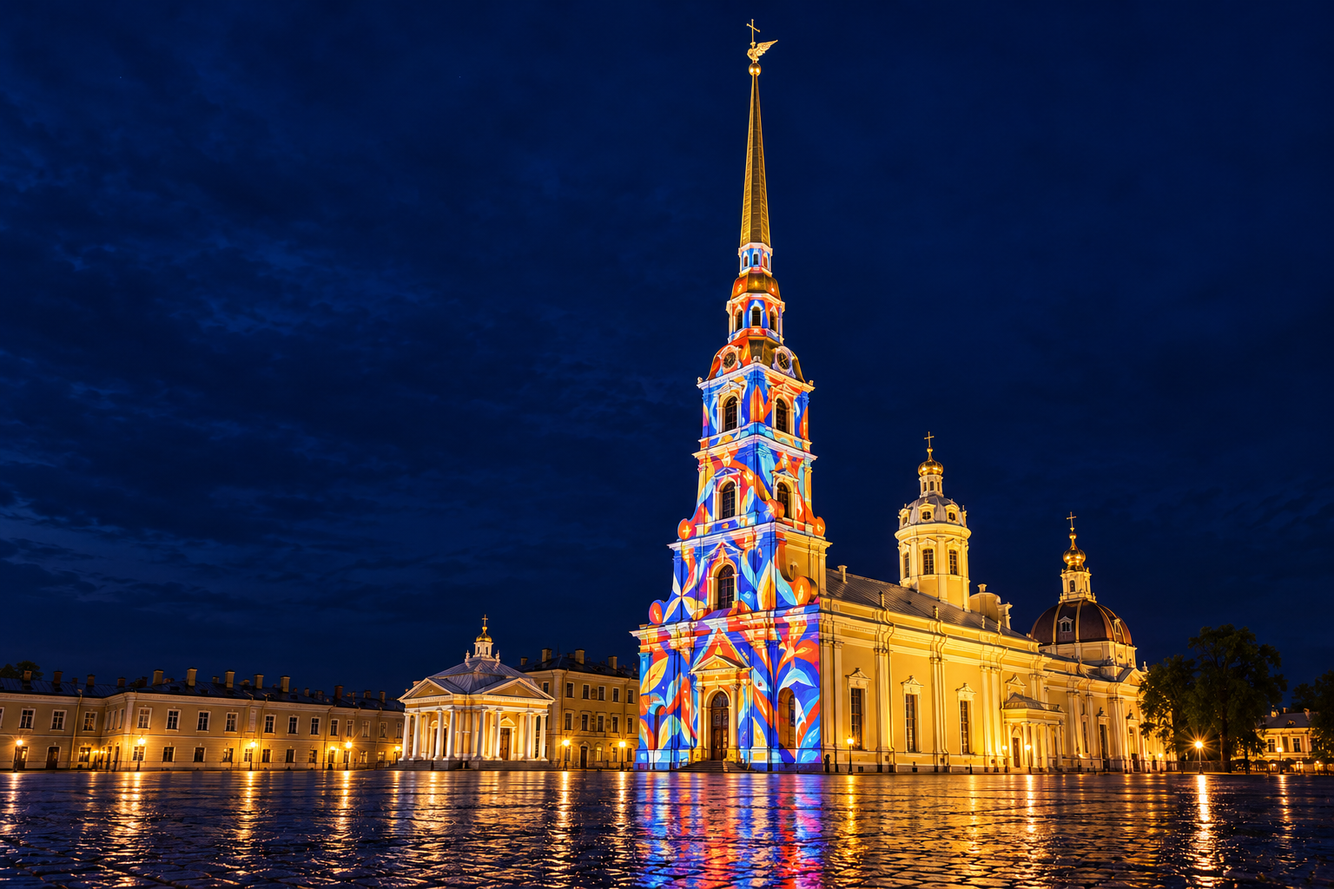
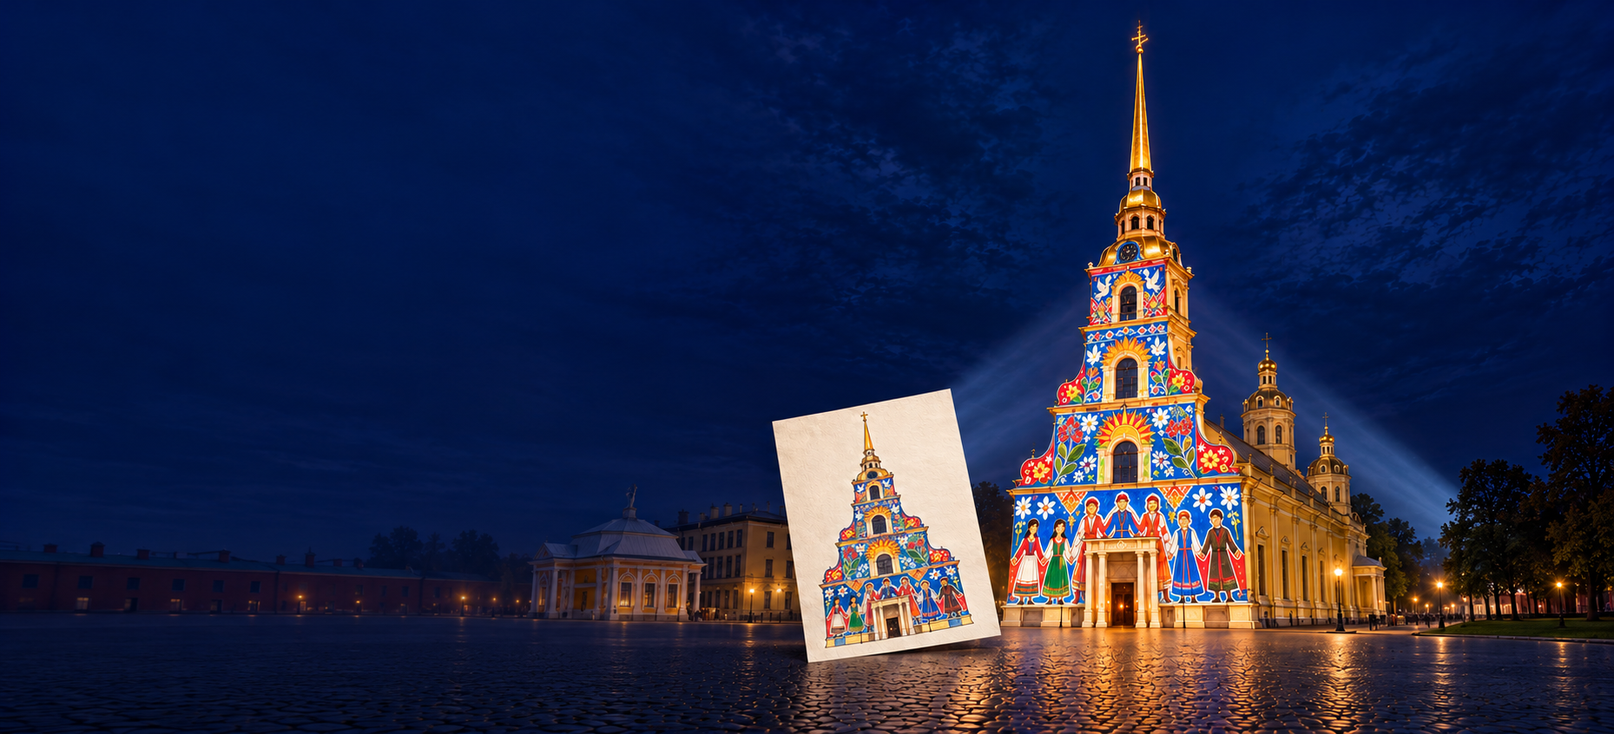
Update cover, campaign hashtag and contact email

diff --git a/src/style.css b/src/style.css
@@ -1,5 +1,5 @@
-@font-face{font-family:Golos;src:url('/golos.ttf') format('truetype');font-weight:400 900;font-display:swap}*{box-sizing:border-box}html{scroll-behavior:smooth;scroll-padding-top:35px}body{margin:0;background:#fff;color:#242424;font-family:Golos,Arial,sans-serif;font-weight:500}button,a{-webkit-tap-highlight-color:transparent}button{font:inherit;cursor:pointer}a{color:inherit;text-decoration:none}button:focus-visible,a:focus-visible{outline:3px solid #DE2726;outline-offset:6px}button:disabled{cursor:wait}h1,h2,h3,p{margin:0}h1,h2{color:#2134A0;font-weight:700;letter-spacing:-.05em;line-height:1.06}h3{font-weight:700;letter-spacing:-.03em;line-height:1.22}.container{width:min(1256px,calc(100% - 112px));margin:auto}.header{border-bottom:2px solid #2134A0;background:#fff;position:relative;z-index:4}.header-inner{display:flex;align-items:center;min-height:146px;gap:30px}.organizer{display:flex;align-items:center;max-width:190px}.organizer img{width:188px;height:auto}.brand{border-left:1px solid #c6c7d1;padding-left:28px;display:flex;align-items:center}.brand img{object-fit:contain;width:58px;height:112px}.header nav{display:flex;gap:38px;margin-left:auto;font-size:15px}.header nav a:hover{color:#DE2726}.menu-toggle,.mobile-nav{display:none}.hero{position:relative;min-height:735px;overflow:hidden}.hero-art{position:absolute;inset:0 0 0 36%;background:#071531}.hero-art img{width:100%;height:100%;object-fit:cover;object-position:60% 50%}.hero-art:after{content:'';position:absolute;inset:0;background:linear-gradient(90deg,#fff 0%,rgba(255,255,255,.99) 5%,rgba(255,255,255,.66) 18%,transparent 42%)}.art-caption{position:absolute;bottom:20px;right:28px;z-index:1;font-size:11px;color:#fff;text-shadow:0 1px 5px #000}.hero-inner{position:relative;padding:55px 0 48px;z-index:2;pointer-events:none}.hero-copy{max-width:640px;pointer-events:auto}.eyebrow{color:#DE2726;font-size:15px;line-height:1.5;font-weight:700;letter-spacing:.01em}.eyebrow span{margin:0 6px}.hero h1{font-size:67px;margin:25px 0 22px;max-width:620px}.hero-description{font-size:24px;line-height:1.35;max-width:385px;margin-bottom:29px;letter-spacing:-.03em}.button{display:inline-flex;align-items:center;justify-content:space-between;gap:40px;border:0;background:#DE2726;color:#fff;padding:20px 28px;font-size:21px;font-weight:700;transition:background .2s,transform .2s}.button span{font-size:27px;line-height:1}.button:hover{background:#bf1d1c;transform:translateY(-2px)}.deadline{color:#DE2726;font-weight:700;font-size:32px;line-height:1.1;letter-spacing:-.04em;margin-top:25px}.about{padding-top:68px;padding-bottom:75px;display:grid;grid-template-columns:1fr 1fr;gap:75px;border-bottom:1px solid #d7d8df}.section-label{color:#747680;font-size:12px;text-transform:uppercase;letter-spacing:.11em;margin-bottom:20px}.about h2{font-size:46px}.small-rule{display:block;width:59px;height:4px;background:#DE2726;margin-top:28px}.about-copy{padding-left:31px;border-left:1px solid #c6c7d1}.about-copy h3{font-size:17px;margin:0 0 17px}.about-copy p{font-size:17px;line-height:1.65;margin-bottom:15px}.about-copy p:last-child{margin:0}.participation{padding:70px 0 81px}.section-heading{display:flex;justify-content:space-between;align-items:center;margin-bottom:39px}.section-heading h2{font-size:53px}.section-note{color:#747680;font-size:14px;line-height:1.5}.steps{display:grid;grid-template-columns:1fr 1fr;list-style:none;padding:0;margin:0}.step{display:grid;grid-template-columns:52px 58px 1fr;gap:20px;min-height:207px;padding:32px 32px 31px 0;border-top:1px solid #d7d8df}.step:nth-child(even){border-left:1px solid #d7d8df;padding-left:32px;padding-right:0}.step-number{font-size:45px;color:#2134A0;font-weight:700;line-height:1;letter-spacing:-.05em}.step-icon{width:52px;height:58px;fill:none;stroke:#2134A0;stroke-width:2.4;stroke-linejoin:round;stroke-linecap:round}.step h3{font-size:22px;margin-bottom:9px}.step p{font-size:16px;line-height:1.5}.text-link{padding:0;background:none;border:0;text-decoration:underline;text-underline-offset:4px;color:#2134A0;font-size:17px;font-weight:700;line-height:1.5;text-align:left;margin-top:13px}.text-link:hover{color:#DE2726}.red{color:#DE2726}.link-note{display:block;font-size:11px;color:#747680;margin-top:8px}.step-final{grid-column:1/-1;border-bottom:1px solid #d7d8df;grid-template-columns:52px 58px 1fr 177px;min-height:186px;padding-right:0;gap:20px}.step-final p{max-width:620px}.step-final h3 span{display:block;margin-top:2px;font-size:28px}.format-note{align-self:center;padding-left:22px;border-left:1px solid #d7d8df;font-size:13px;color:#747680;line-height:1.8}.format-note span{display:block}.showcase{background:#f8f8fb;border-top:1px solid #ededf4;border-bottom:2px solid #2134A0;padding:64px 0 61px}.showcase h2{font-size:69px;max-width:1100px;margin:25px 0 22px}.showcase-subtitle{font-size:26px;letter-spacing:-.035em}.showcase-bottom{display:grid;grid-template-columns:1fr 1fr;gap:80px;margin-top:58px;align-items:center}.slogan{font-size:35px;line-height:1.22;letter-spacing:-.035em;font-weight:700;display:flex;align-items:flex-start;flex-direction:column;color:white}.slogan span{background:#2134A0;padding:5px 16px}.slogan span+span{background:#DE2726;margin-left:59px}.showcase-bottom p{font-size:16px;line-height:1.6;max-width:480px}.footer-inner{padding:38px 0 42px;display:flex;align-items:center;gap:43px}.footer-inner h2{font-size:42px}.contact{border-left:1px solid #c6c7d1;padding-left:37px}.contact p{font-size:15px}.contact .text-link{margin-top:5px;font-size:19px}.copyright{margin-left:auto;color:#747680;font-size:12px;line-height:1.6}dialog{border:0;padding:38px;max-width:480px;width:calc(100% - 40px);box-shadow:0 16px 100px #07153144}dialog::backdrop{background:#07153180;backdrop-filter:blur(4px)}dialog h2{font-size:32px;margin-bottom:20px}dialog p:not(.section-label){line-height:1.6;font-size:16px}dialog .button{margin-top:25px;font-size:17px;padding:14px 20px}.dialog-close{position:absolute;right:16px;top:12px;border:0;background:transparent;font-size:32px;color:#2134A0}.skip{position:fixed;top:-80px;left:20px;z-index:20;background:#fff;padding:15px}.skip:focus{top:10px}[hidden]{display:none!important}
-@media(min-width:1550px){.hero-art img{object-position:50% 50%}.hero-art{left:40%}}
-@media(max-width:1100px){.container{width:calc(100% - 64px)}.hero h1{font-size:57px;max-width:520px}.hero-copy{max-width:540px}.hero{min-height:700px}.hero-description{font-size:22px;max-width:335px}.about{gap:35px}.about h2{font-size:39px}.step{gap:14px;grid-template-columns:42px 45px 1fr;padding-right:20px}.step:nth-child(even){padding-left:20px}.step-icon{width:43px}.step-number{font-size:38px}.step-final{grid-template-columns:42px 45px 1fr 140px}.showcase h2{font-size:58px}.showcase-bottom{gap:35px}.slogan{font-size:30px}}
-@media(max-width:760px){.container{width:calc(100% - 40px)}.header-inner{min-height:106px;gap:19px}.organizer img{width:148px}.brand{padding-left:18px}.brand img{width:41px;height:80px}.header-inner nav{display:none}.menu-toggle{display:flex;margin-left:auto;background:transparent;border:0;width:39px;height:40px;flex-direction:column;gap:7px;justify-content:center;padding:6px}.menu-toggle span{height:2px;background:#2134A0;width:26px}.header .mobile-nav{display:flex;margin:0;padding:22px 20px;gap:20px;flex-direction:column;border-top:1px solid #dedee5}.hero{display:flex;flex-direction:column;min-height:0}.hero-inner{order:0;padding:33px 0 24px}.hero-copy{max-width:none}.hero h1{font-size:clamp(32px,10.4vw,43px);max-width:550px;margin:19px 0}.eyebrow{font-size:12px}.hero-description{font-size:21px;max-width:350px;margin-bottom:23px}.button{font-size:18px;padding:18px 24px;gap:38px}.deadline{font-size:27px;margin-top:23px}.hero-art{order:1;position:relative;inset:auto;width:100%;height:375px}.hero-art:after{background:linear-gradient(180deg,#fff,transparent 24%)}.hero-art img{object-position:56% 50%}.art-caption{font-size:10px;right:20px;bottom:17px}.about{padding:45px 0;display:block}.about h2{font-size:38px}.section-label{font-size:11px;margin-bottom:15px}.small-rule{margin-top:22px}.about-copy{border:0;padding:0;margin-top:29px}.about-copy p{font-size:15px;line-height:1.65}.about-copy h3{font-size:15px}.participation{padding:43px 0 48px}.section-heading{margin-bottom:28px;display:block}.section-heading h2{font-size:40px}.section-note{display:none}.steps{display:block}.step,.step:nth-child(even),.step-final{border-left:0;grid-template-columns:36px 42px 1fr;gap:12px;padding:26px 0;min-height:0}.step-number{font-size:32px}.step-icon{width:38px;height:46px}.step h3{font-size:19px}.step p{font-size:15px}.text-link{font-size:15px}.step-final h3 span{font-size:25px}.format-note{grid-column:3;border:0;padding:0;display:flex;gap:12px;font-size:11px}.showcase{padding:43px 0 44px}.showcase h2{font-size:40px;margin:21px 0 19px}.showcase-subtitle{font-size:21px;line-height:1.35;max-width:330px}.showcase-bottom{display:flex;flex-direction:column;align-items:flex-start;gap:31px;margin-top:34px}.slogan{font-size:27px}.slogan span+span{margin-left:36px}.showcase-bottom p{font-size:15px}.footer-inner{display:block;padding:32px 0}.footer-inner h2{font-size:38px}.contact{border:0;padding:0;margin:22px 0}.copyright{font-size:11px}.contact .text-link{font-size:17px}}
+@font-face{font-family:Golos;src:url('/golos.ttf') format('truetype');font-weight:400 900;font-display:swap}*{box-sizing:border-box}html{scroll-behavior:smooth;scroll-padding-top:35px}body{margin:0;background:#fff;color:#242424;font-family:Golos,Arial,sans-serif;font-weight:500}button,a{-webkit-tap-highlight-color:transparent}button{font:inherit;cursor:pointer}a{color:inherit;text-decoration:none}button:focus-visible,a:focus-visible{outline:3px solid #DE2726;outline-offset:6px}button:disabled{cursor:wait}h1,h2,h3,p{margin:0}h1,h2{color:#2134A0;font-weight:700;letter-spacing:-.05em;line-height:1.06}h3{font-weight:700;letter-spacing:-.03em;line-height:1.22}.container{width:min(1256px,calc(100% - 112px));margin:auto}.header{border-bottom:2px solid #2134A0;background:#fff;position:relative;z-index:4}.header-inner{display:flex;align-items:center;min-height:146px;gap:30px}.organizer{display:flex;align-items:center;max-width:190px}.organizer img{width:188px;height:auto}.brand{border-left:1px solid #c6c7d1;padding-left:28px;display:flex;align-items:center}.brand img{object-fit:contain;width:58px;height:112px}.header nav{display:flex;gap:38px;margin-left:auto;font-size:15px}.header nav a:hover{color:#DE2726}.menu-toggle,.mobile-nav{display:none}.hero{position:relative;min-height:735px;overflow:hidden}.hero-art{position:absolute;inset:0 0 0 36%;background:#071531}.hero-art img{width:100%;height:100%;object-fit:cover;object-position:70% 50%}.hero-art:after{content:'';position:absolute;inset:0;background:linear-gradient(90deg,#fff 0%,rgba(255,255,255,.99) 5%,rgba(255,255,255,.66) 18%,transparent 42%)}.art-caption{position:absolute;bottom:20px;right:28px;z-index:1;font-size:11px;color:#fff;text-shadow:0 1px 5px #000}.hero-inner{position:relative;padding:55px 0 48px;z-index:2;pointer-events:none}.hero-copy{max-width:640px;pointer-events:auto}.eyebrow{color:#DE2726;font-size:15px;line-height:1.5;font-weight:700;letter-spacing:.01em}.eyebrow span{margin:0 6px}.hero h1{font-size:67px;margin:25px 0 22px;max-width:620px}.hero-description{font-size:24px;line-height:1.35;max-width:385px;margin-bottom:29px;letter-spacing:-.03em}.button{display:inline-flex;align-items:center;justify-content:space-between;gap:40px;border:0;background:#DE2726;color:#fff;padding:20px 28px;font-size:21px;font-weight:700;transition:background .2s,transform .2s}.button span{font-size:27px;line-height:1}.button:hover{background:#bf1d1c;transform:translateY(-2px)}.deadline{color:#DE2726;font-weight:700;font-size:32px;line-height:1.1;letter-spacing:-.04em;margin-top:25px}.about{padding-top:68px;padding-bottom:75px;display:grid;grid-template-columns:1fr 1fr;gap:75px;border-bottom:1px solid #d7d8df}.section-label{color:#747680;font-size:12px;text-transform:uppercase;letter-spacing:.11em;margin-bottom:20px}.about h2{font-size:52px}.small-rule{display:block;width:59px;height:4px;background:#DE2726;margin-top:28px}.about-copy{padding-left:31px;border-left:1px solid #c6c7d1}.about-copy h3{font-size:17px;margin:0 0 17px}.about-copy p{font-size:17px;line-height:1.65;margin-bottom:15px}.about-copy p:last-child{margin:0}.participation{padding:70px 0 81px}.section-heading{display:flex;justify-content:space-between;align-items:center;margin-bottom:39px}.section-heading h2{font-size:53px}.section-note{color:#747680;font-size:14px;line-height:1.5}.steps{display:grid;grid-template-columns:1fr 1fr;list-style:none;padding:0;margin:0}.step{display:grid;grid-template-columns:52px 58px 1fr;gap:20px;min-height:207px;padding:32px 32px 31px 0;border-top:1px solid #d7d8df}.step:nth-child(even){border-left:1px solid #d7d8df;padding-left:32px;padding-right:0}.step-number{font-size:45px;color:#2134A0;font-weight:700;line-height:1;letter-spacing:-.05em}.step-icon{width:52px;height:58px;fill:none;stroke:#2134A0;stroke-width:2.4;stroke-linejoin:round;stroke-linecap:round}.step h3{font-size:22px;margin-bottom:9px}.step p{font-size:16px;line-height:1.5}.text-link{padding:0;background:none;border:0;text-decoration:underline;text-underline-offset:4px;color:#2134A0;font-size:17px;font-weight:700;line-height:1.5;text-align:left;margin-top:13px}.text-link:hover{color:#DE2726}.red{color:#DE2726}.link-note{display:block;font-size:11px;color:#747680;margin-top:8px}.step-final{grid-column:1/-1;border-bottom:1px solid #d7d8df;grid-template-columns:52px 58px 1fr 177px;min-height:186px;padding-right:0;gap:20px}.step-final p{max-width:620px}.step-final h3 span{display:block;margin-top:2px;font-size:28px}.format-note{align-self:center;padding-left:22px;border-left:1px solid #d7d8df;font-size:13px;color:#747680;line-height:1.8}.format-note span{display:block}.showcase{background:#f8f8fb;border-top:1px solid #ededf4;border-bottom:2px solid #2134A0;padding:64px 0 61px}.showcase h2{font-size:69px;max-width:1100px;margin:25px 0 22px}.showcase-subtitle{font-size:26px;letter-spacing:-.035em}.showcase-bottom{display:grid;grid-template-columns:1fr 1fr;gap:80px;margin-top:58px;align-items:center}.slogan{font-size:35px;line-height:1.22;letter-spacing:-.035em;font-weight:700;display:flex;align-items:flex-start;flex-direction:column;color:white}.slogan span{background:#2134A0;padding:5px 16px}.slogan span+span{background:#DE2726;margin-left:59px}.showcase-bottom p{font-size:16px;line-height:1.6;max-width:480px}.footer-inner{padding:38px 0 42px;display:flex;align-items:center;gap:43px}.footer-inner h2{font-size:42px}.contact{border-left:1px solid #c6c7d1;padding-left:37px}.contact p{font-size:15px}.contact .text-link{margin-top:5px;font-size:19px}.copyright{margin-left:auto;color:#747680;font-size:12px;line-height:1.6}dialog{border:0;padding:38px;max-width:480px;width:calc(100% - 40px);box-shadow:0 16px 100px #07153144}dialog::backdrop{background:#07153180;backdrop-filter:blur(4px)}dialog h2{font-size:32px;margin-bottom:20px}dialog p:not(.section-label){line-height:1.6;font-size:16px}dialog .button{margin-top:25px;font-size:17px;padding:14px 20px}.dialog-close{position:absolute;right:16px;top:12px;border:0;background:transparent;font-size:32px;color:#2134A0}.skip{position:fixed;top:-80px;left:20px;z-index:20;background:#fff;padding:15px}.skip:focus{top:10px}[hidden]{display:none!important}
+@media(min-width:1550px){.hero-art img{object-position:70% 50%}.hero-art{left:40%}}
+@media(max-width:1100px){.container{width:calc(100% - 64px)}.hero h1{font-size:57px;max-width:520px}.hero-copy{max-width:540px}.hero{min-height:700px}.hero-description{font-size:22px;max-width:335px}.about{gap:35px}.about h2{font-size:46px}.step{gap:14px;grid-template-columns:42px 45px 1fr;padding-right:20px}.step:nth-child(even){padding-left:20px}.step-icon{width:43px}.step-number{font-size:38px}.step-final{grid-template-columns:42px 45px 1fr 140px}.showcase h2{font-size:58px}.showcase-bottom{gap:35px}.slogan{font-size:30px}}
+@media(max-width:760px){.container{width:calc(100% - 40px)}.header-inner{min-height:106px;gap:19px}.organizer img{width:148px}.brand{padding-left:18px}.brand img{width:41px;height:80px}.header-inner nav{display:none}.menu-toggle{display:flex;margin-left:auto;background:transparent;border:0;width:39px;height:40px;flex-direction:column;gap:7px;justify-content:center;padding:6px}.menu-toggle span{height:2px;background:#2134A0;width:26px}.header .mobile-nav{display:flex;margin:0;padding:22px 20px;gap:20px;flex-direction:column;border-top:1px solid #dedee5}.hero{display:flex;flex-direction:column;min-height:0}.hero-inner{order:0;padding:33px 0 24px}.hero-copy{max-width:none}.hero h1{font-size:clamp(32px,10.4vw,43px);max-width:550px;margin:19px 0}.eyebrow{font-size:12px}.hero-description{font-size:21px;max-width:350px;margin-bottom:23px}.button{font-size:18px;padding:18px 24px;gap:38px}.deadline{font-size:27px;margin-top:23px}.hero-art{order:1;position:relative;inset:auto;width:100%;height:375px}.hero-art:after{background:linear-gradient(180deg,#fff,transparent 24%)}.hero-art img{object-position:70% 50%}.art-caption{font-size:10px;right:20px;bottom:17px}.about{padding:45px 0;display:block}.about h2{font-size:42px}.section-label{font-size:11px;margin-bottom:15px}.small-rule{margin-top:22px}.about-copy{border:0;padding:0;margin-top:29px}.about-copy p{font-size:15px;line-height:1.65}.about-copy h3{font-size:15px}.participation{padding:43px 0 48px}.section-heading{margin-bottom:28px;display:block}.section-heading h2{font-size:40px}.section-note{display:none}.steps{display:block}.step,.step:nth-child(even),.step-final{border-left:0;grid-template-columns:36px 42px 1fr;gap:12px;padding:26px 0;min-height:0}.step-number{font-size:32px}.step-icon{width:38px;height:46px}.step h3{font-size:19px}.step p{font-size:15px}.text-link{font-size:15px}.step-final h3 span{font-size:25px}.format-note{grid-column:3;border:0;padding:0;display:flex;gap:12px;font-size:11px}.showcase{padding:43px 0 44px}.showcase h2{font-size:40px;margin:21px 0 19px}.showcase-subtitle{font-size:21px;line-height:1.35;max-width:330px}.showcase-bottom{display:flex;flex-direction:column;align-items:flex-start;gap:31px;margin-top:34px}.slogan{font-size:27px}.slogan span+span{margin-left:36px}.showcase-bottom p{font-size:15px}.footer-inner{display:block;padding:32px 0}.footer-inner h2{font-size:38px}.contact{border:0;padding:0;margin:22px 0}.copyright{font-size:11px}.contact .text-link{font-size:17px}}
 @media(prefers-reduced-motion:reduce){html{scroll-behavior:auto}*{transition:none!important}}

diff --git a/src/index.html b/src/index.html
@@ -6,16 +6,16 @@
 <header class="header"><div class="container header-inner"><a class="organizer" href="https://www.gov.spb.ru/gov/otrasl/c_culture/information/" target="_blank" rel="noopener noreferrer" aria-label="Комитет по культуре Санкт-Петербурга"><img src="/culture-logo.png" alt="Комитет по культуре Санкт-Петербурга" width="170" height="86"></a><div class="brand"><img src="/year-logo.png" alt="2026 — Год единства народов России" width="53" height="100"></div><nav aria-label="Основная навигация"><a href="#about">Об акции</a><a href="#participation">Правила участия</a><a href="#contacts">Контакты</a></nav><button class="menu-toggle" aria-expanded="false" aria-controls="mobile-nav" aria-label="Открыть меню"><span></span><span></span></button></div><nav id="mobile-nav" class="mobile-nav" aria-label="Мобильная навигация" hidden><a href="#about">Об акции</a><a href="#participation">Правила участия</a><a href="#contacts">Контакты</a></nav></header>
 <main id="main">
 <section class="hero" aria-labelledby="hero-title"><div class="hero-art" role="img" aria-label="Визуализация яркой художественной проекции на Петропавловском соборе"><img src="/hero.png" alt="" fetchpriority="high"><span class="art-caption">Визуализация проекции</span></div><div class="container hero-inner"><div class="hero-copy"><p class="eyebrow">Свет Единства <span>|</span> 4 ноября 2026</p><h1 id="hero-title">Первая всероссийская мультимедийная акция</h1><p class="hero-description">Создай рисунок, который станет частью большой истории.</p><button class="button" data-action="mask">Скачать маску <span aria-hidden="true">↓</span></button><p class="deadline">Прием работ<br>до 27 октября</p></div></div></section>
-<section class="about container" id="about"><div><p class="section-label">Об акции</p><h2>Создаем<br>вместе</h2><span class="small-rule"></span></div><div class="about-copy"><p>4 ноября в рамках мультимедийного спектакля «Свет Единства» на фасаде Петропавловского собора пройдет всероссийская мультимедийная акция <strong>#СОЗДАЕМ_ВМЕСТЕ</strong>.</p><p>Для участия в акции нужно создать композицию на тему единства народов России и отправить ее до <strong>27 октября</strong>. Работы участников со всей страны украсят один из главных символов Санкт-Петербурга и станут частью празднования Дня народного единства.</p></div></section>
+<section class="about container" id="about"><div><p class="section-label">Об акции</p><h2 class="campaign-hashtag" aria-label="#СОЗДАЕМ_ВМЕСТЕ">#СОЗДАЕМ_<wbr>ВМЕСТЕ</h2><span class="small-rule"></span></div><div class="about-copy"><p>4 ноября в рамках мультимедийного спектакля «Свет Единства» на фасаде Петропавловского собора пройдет всероссийская мультимедийная акция <strong>#СОЗДАЕМ_ВМЕСТЕ</strong>.</p><p>Для участия в акции нужно создать композицию на тему единства народов России и отправить ее до <strong>27 октября</strong>. Работы участников со всей страны украсят один из главных символов Санкт-Петербурга и станут частью празднования Дня народного единства.</p></div></section>
 <section class="participation container" id="participation"><div class="section-heading"><div><p class="section-label">От идеи до большой проекции</p><h2>Правила участия</h2></div><span class="section-note">Пять простых шагов<br>для твоей большой истории</span></div><ol class="steps">
 <li class="step"><span class="step-number">01</span><svg class="step-icon" viewBox="0 0 64 64" aria-hidden="true"><path d="M15 5h23l12 12v42H15zM38 5v14h12M32 28v19m-8-8 8 8 8-8"/></svg><div><h3>Скачай маску</h3><p>Это шаблон с фасадом собора для твоего рисунка.</p><button class="text-link red" data-action="mask">Скачать маску ↓</button></div></li>
 <li class="step"><span class="step-number">02</span><svg class="step-icon" viewBox="0 0 64 64" aria-hidden="true"><path d="M42 9c-17-7-35 5-35 23 0 15 14 24 25 19 8-3-7-14 5-16M49 7 32 38l7 4L55 9zM32 38c-10 0-8 13-10 17 8-1 18-8 17-13"/><circle cx="17" cy="27" r="3"/><circle cx="24" cy="17" r="3"/><circle cx="15" cy="39" r="3"/></svg><div><h3>Выбери, как рисовать</h3><p>Распечатай маску на листе А4 или открой ее в любой программе для цифрового рисования.</p></div></li>
 <li class="step"><span class="step-number">03</span><svg class="step-icon" viewBox="0 0 64 64" aria-hidden="true"><path d="M15 5h23l12 12v42H15zM38 5v14h12M24 28h17M24 36h17M24 44h11"/></svg><div><h3>Ознакомься с правилами</h3><p>Внимательно изучи требования к содержанию и оформлению рисунка.</p><button class="text-link" data-action="rules">Правила участия ↗</button><span class="link-note">PDF · можно открыть и скачать</span></div></li>
 <li class="step"><span class="step-number">04</span><svg class="step-icon" viewBox="0 0 64 64" aria-hidden="true"><path d="m12 45 31-31 10 10-31 31-16 5zM38 19l10 10M12 45l10 10M43 14l6-6 10 10-6 6M17 45l26-26"/></svg><div><h3>Создай изображение</h3><p>Посвяти рисунок теме единства народов России: людям, культурам и традициям, которые нас объединяют.</p></div></li>
-<li class="step step-final"><span class="step-number">05</span><svg class="step-icon" viewBox="0 0 64 64" aria-hidden="true"><path d="M5 13h54v38H5zM5 13l27 22 27-22M5 51l20-22M59 51 39 29"/></svg><div><h3>Пришли свою работу <span class="red">до 27 октября</span></h3><p>Отсканируй рисунок или сохрани цифровую работу в формате JPEG или PNG и отправь на почту с указанием ФИО и твоего города.</p><button class="text-link" data-action="email">Адрес почты скоро появится</button></div><div class="format-note"><span>JPEG / PNG</span><span>ФИО + город</span></div></li>
+<li class="step step-final"><span class="step-number">05</span><svg class="step-icon" viewBox="0 0 64 64" aria-hidden="true"><path d="M5 13h54v38H5zM5 13l27 22 27-22M5 51l20-22M59 51 39 29"/></svg><div><h3>Пришли свою работу <span class="red">до 27 октября</span></h3><p>Отсканируй рисунок или сохрани цифровую работу в формате JPEG или PNG и отправь на почту с указанием ФИО и твоего города.</p><button class="text-link" data-action="email">info@svet-edinstva.ru</button></div><div class="format-note"><span>JPEG / PNG</span><span>ФИО + город</span></div></li>
 </ol></section>
 <section class="showcase"><div class="container showcase-inner"><p class="eyebrow">4 ноября 2026 · Санкт-Петербург</p><h2>Твою работу увидит<br>весь Санкт-Петербург</h2><p class="showcase-subtitle">на фасаде Петропавловского собора</p><div class="showcase-bottom"><div class="slogan" aria-label="Народов много — Россия одна!"><span>Народов много —</span><span>Россия одна!</span></div><p>В течение недели после акции мы опубликуем на этом сайте фотографии всех работ, показанных на фасаде Петропавловского собора.</p></div></div></section>
 </main>
-<footer id="contacts"><div class="container footer-inner"><h2>Контакты</h2><div class="contact"><p>По вопросам участия</p><button class="text-link" data-action="email">Почта скоро появится ↗</button></div><p class="copyright">Свет Единства<br>Санкт-Петербург, 2026</p></div></footer>
+<footer id="contacts"><div class="container footer-inner"><h2>Контакты</h2><div class="contact"><p>По вопросам участия</p><button class="text-link" data-action="email">info@svet-edinstva.ru</button></div><p class="copyright">Свет Единства<br>Санкт-Петербург, 2026</p></div></footer>
 <dialog id="notice"><button class="dialog-close" aria-label="Закрыть">×</button><p class="section-label">Свет Единства</p><h2 id="notice-title"></h2><p id="notice-body"></p><button class="button dialog-done">Понятно <span aria-hidden="true">↗</span></button></dialog>
 </body></html>

diff --git a/README.md b/README.md
@@ -44,7 +44,7 @@ npm run dev
 
 ## Ожидаемые материалы
 
-Настройки находятся в `src/config.json`. Подробные правила подключены как `public/rules.pdf`. Маска, адрес почты и финальное изображение пока не предоставлены. Пустые значения показывают уведомления.
+Настройки находятся в `src/config.json`. Подробные правила подключены как `public/rules.pdf`. Маска пока не предоставлена. Почта подключена: `info@svet-edinstva.ru`; обложка — предоставленный файл `oblozhka (1).png`. Пустые значения показывают уведомления.
 
 - Положить маску в `public/materials/maska.pdf` (или PNG/ZIP); указать `maskPath: "public/materials/maska.pdf"`.
 - Положить PDF правил в `public/rules.pdf`; указать `rulesPath: "public/rules.pdf"`. Он откроется отдельно и доступен для скачивания.
@@ -63,6 +63,6 @@ npm run dev
 
 Golos Text, синий `#2134A0`, красный `#DE2726`, чёрный `#242424` — из [официального брендбука](https://xn--2026-43dlgiaj8a1di1cp.xn--p1ai/brandbook/). Логотип Комитета взят из [официального архива](https://www.gov.spb.ru/gov/otrasl/c_culture/information/). Лицензия шрифта — `public/Golos-OFL.txt`.
 
-Hero — AI-визуализация проекции, не фотография проведённого мероприятия; подпись есть на сайте. Изображение `public/hero.png`, промпт `public/hero-prompt.txt`, built-in Imagegen. Срок приёма работ **27 октября** сохранён по правкам в ТЗ.
+Обложка предоставлена организатором в файле `oblozhka (1).png` и подключена как `public/hero.png`. Подпись «Визуализация проекции» сохранена. Срок приёма работ **27 октября** сохранён по правкам в ТЗ.
 
 Тексты сайта: использовать «е» по умолчанию; «ё» сохранять только для смыслового различения (например, «все» / «всё»), если она есть в согласованном тексте.
